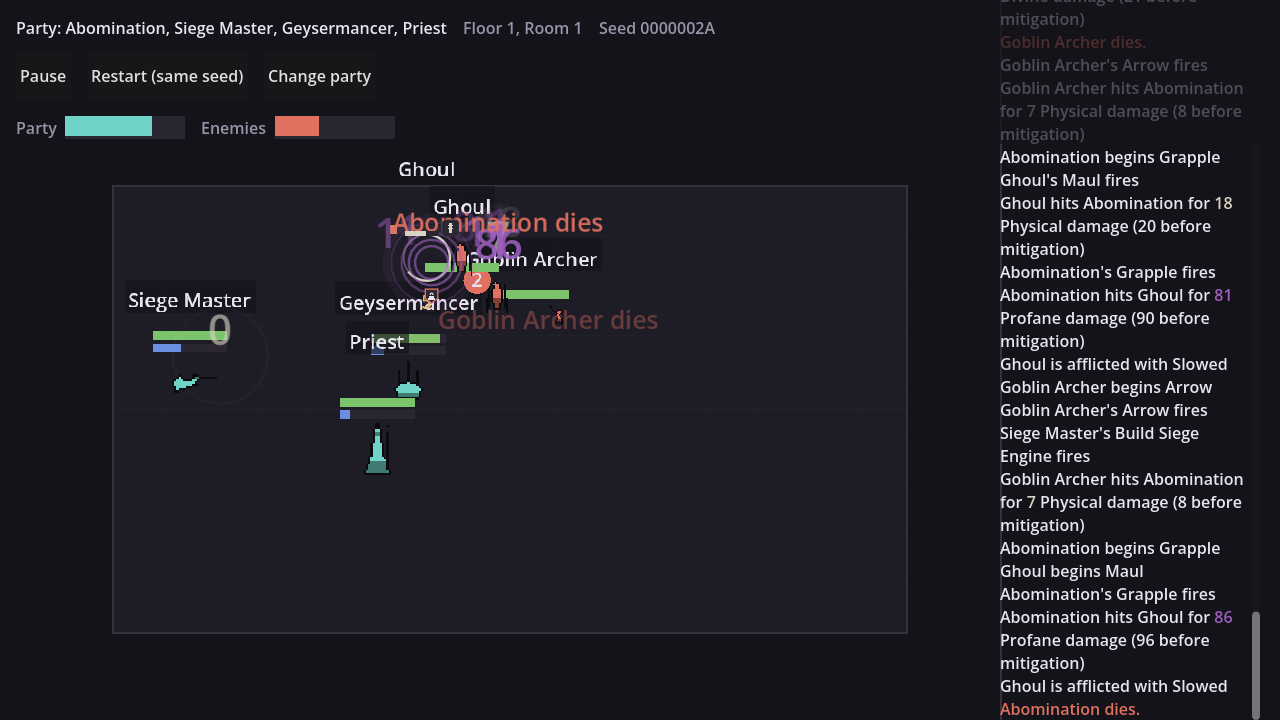
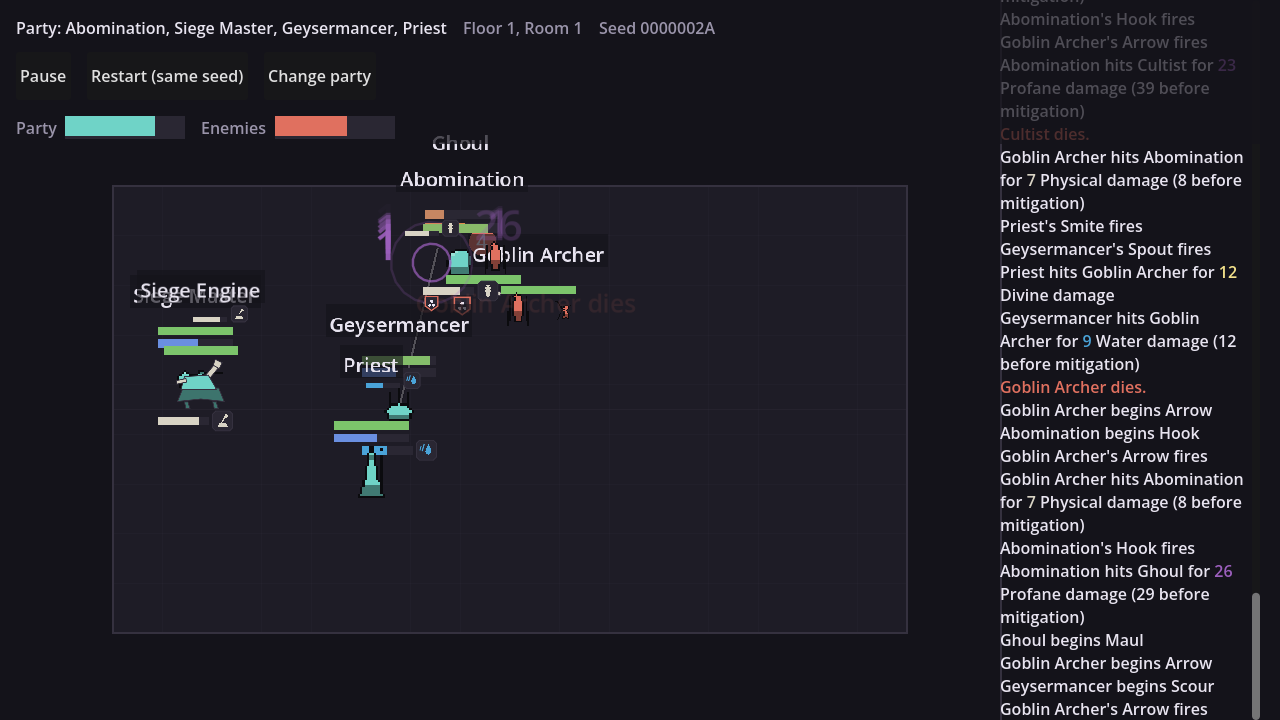
Remove the wind-up ring, and a cleanup pass over Scripts/Art
Closes #85.

The ring was replaced by a progress bar with an ability icon in PR #84 and
the player prefers the bar. What was left was dead code with passing tests,
which is the one thing that makes dead code look load-bearing.

Removed:
  - AttackFX.wind_up_sweep_angle and AttackFX.draw_wind_up
  - Palette.WIND_UP
  - the wind-up row and both filmstrips in Tools/AttackFXPreview.gd, its
    only caller
  - the three sweep-angle tests, deliberately not ported: the bar is wren's
    and already tests that it reads elapsed/total rather than absolute ticks
  - UnitArt.expected_filenames, no caller anywhere, and its doc comment
    claimed a test used it

Corrected AttackFX.gd's header, which listed three responsibilities where
there are two, and PLAYING.md, which still told players about the rings.

Fixed two icon collisions found by rendering the sheet:
  - siege_master_shot and siege_engine_bolt both drew the same plain bolt,
    and a Siege Master fights beside the engine it builds
  - geyser_cleanse drew geyser_scald's steam, so a debuff strip on an ally
    looked like a damage-over-time attack

Added test_no_two_ability_icons_share_a_glyph_by_accident, with an
allowlist naming the two shares that are deliberate.

Folded four hand-written copies of filled-polygon-plus-closing-outline into
UIArt.draw_outlined_polygon, and two byte-identical PNG loaders into
UIArt.load_png.

Agent: sable

diff --git a/PLAYING.md b/PLAYING.md
@@ -34,8 +34,8 @@ walk into it, which rooms you can reach from where you stand, and what you have
 found so far. A boss is never a surprise.
 
 **Fight a room.** Real time, with pause. Party and enemy health at the top,
-floating damage numbers, wind-up rings showing an action about to land, targeting
-lines, and a combat log in plain language.
+floating damage numbers, a progress bar above each unit with the icon of the
+action it is about to land, targeting lines, and a combat log in plain language.
 
 **Carry your losses forward.** Damage does not reset between rooms and the dead
 stay dead. The floor is meant to wear you down.
